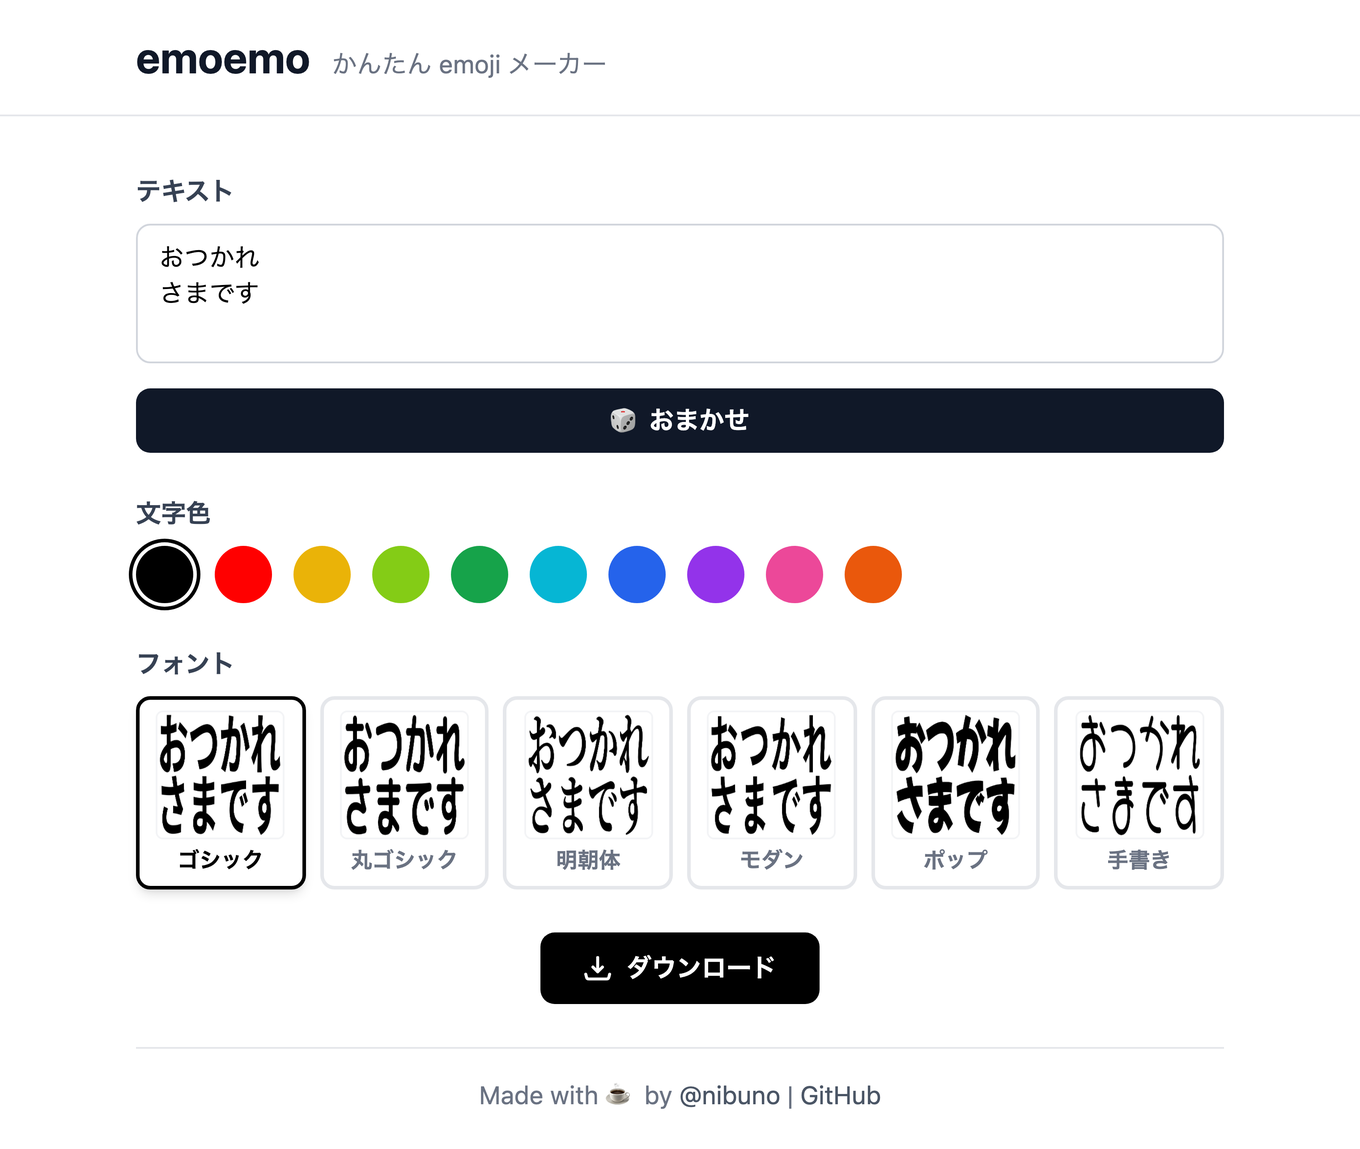
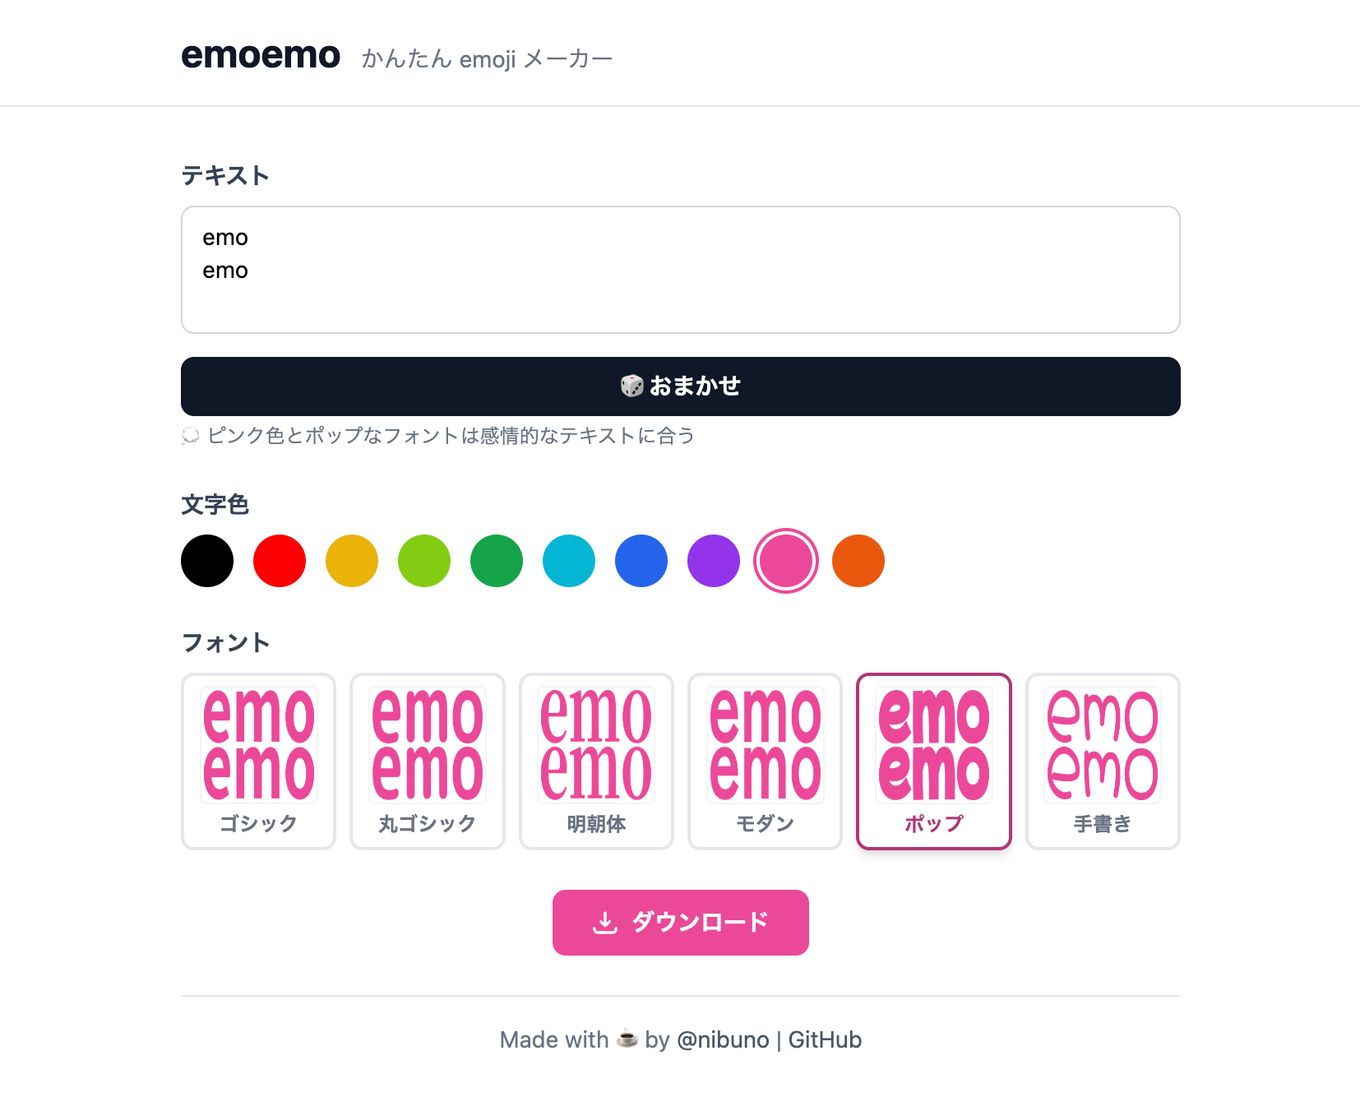
Refresh the emoemo screenshot
Retake it with the pink ポップ preset and the おまかせ suggestion on screen,
so the feature that talks to Workers AI is visible in the image rather than
only described in the text.

Crop the empty lower 40% of the capture and tighten the sides. The old
framing left the UI at 47% of the image width, too small to read once the
page scales it down to the 680px content column.

diff --git a/src/data/projects.ts b/src/data/projects.ts
@@ -39,9 +39,9 @@ export const projects: Project[] = [
     slug: "emoemo",
     screenshot: {
       src: "/images/projects/emoemo.png",
-      alt: "emoemoの画面。テキストを入力すると、ゴシックや明朝体など6種類のフォントで絵文字のプレビューが並ぶ。",
+      alt: "emoemoの画面。「emo emo」と入力してピンク色を選ぶと、ゴシックや明朝体など6種類のフォントでプレビューが並ぶ。おまかせ機能が色とフォントの組み合わせを提案している。",
       width: 1360,
-      height: 1149,
+      height: 1097,
     },
     stack: "React / TypeScript / Vite / Tailwind CSS / Canvas API / Cloudflare Workers",
     title: "emoemo — かんたんemojiメーカー",
